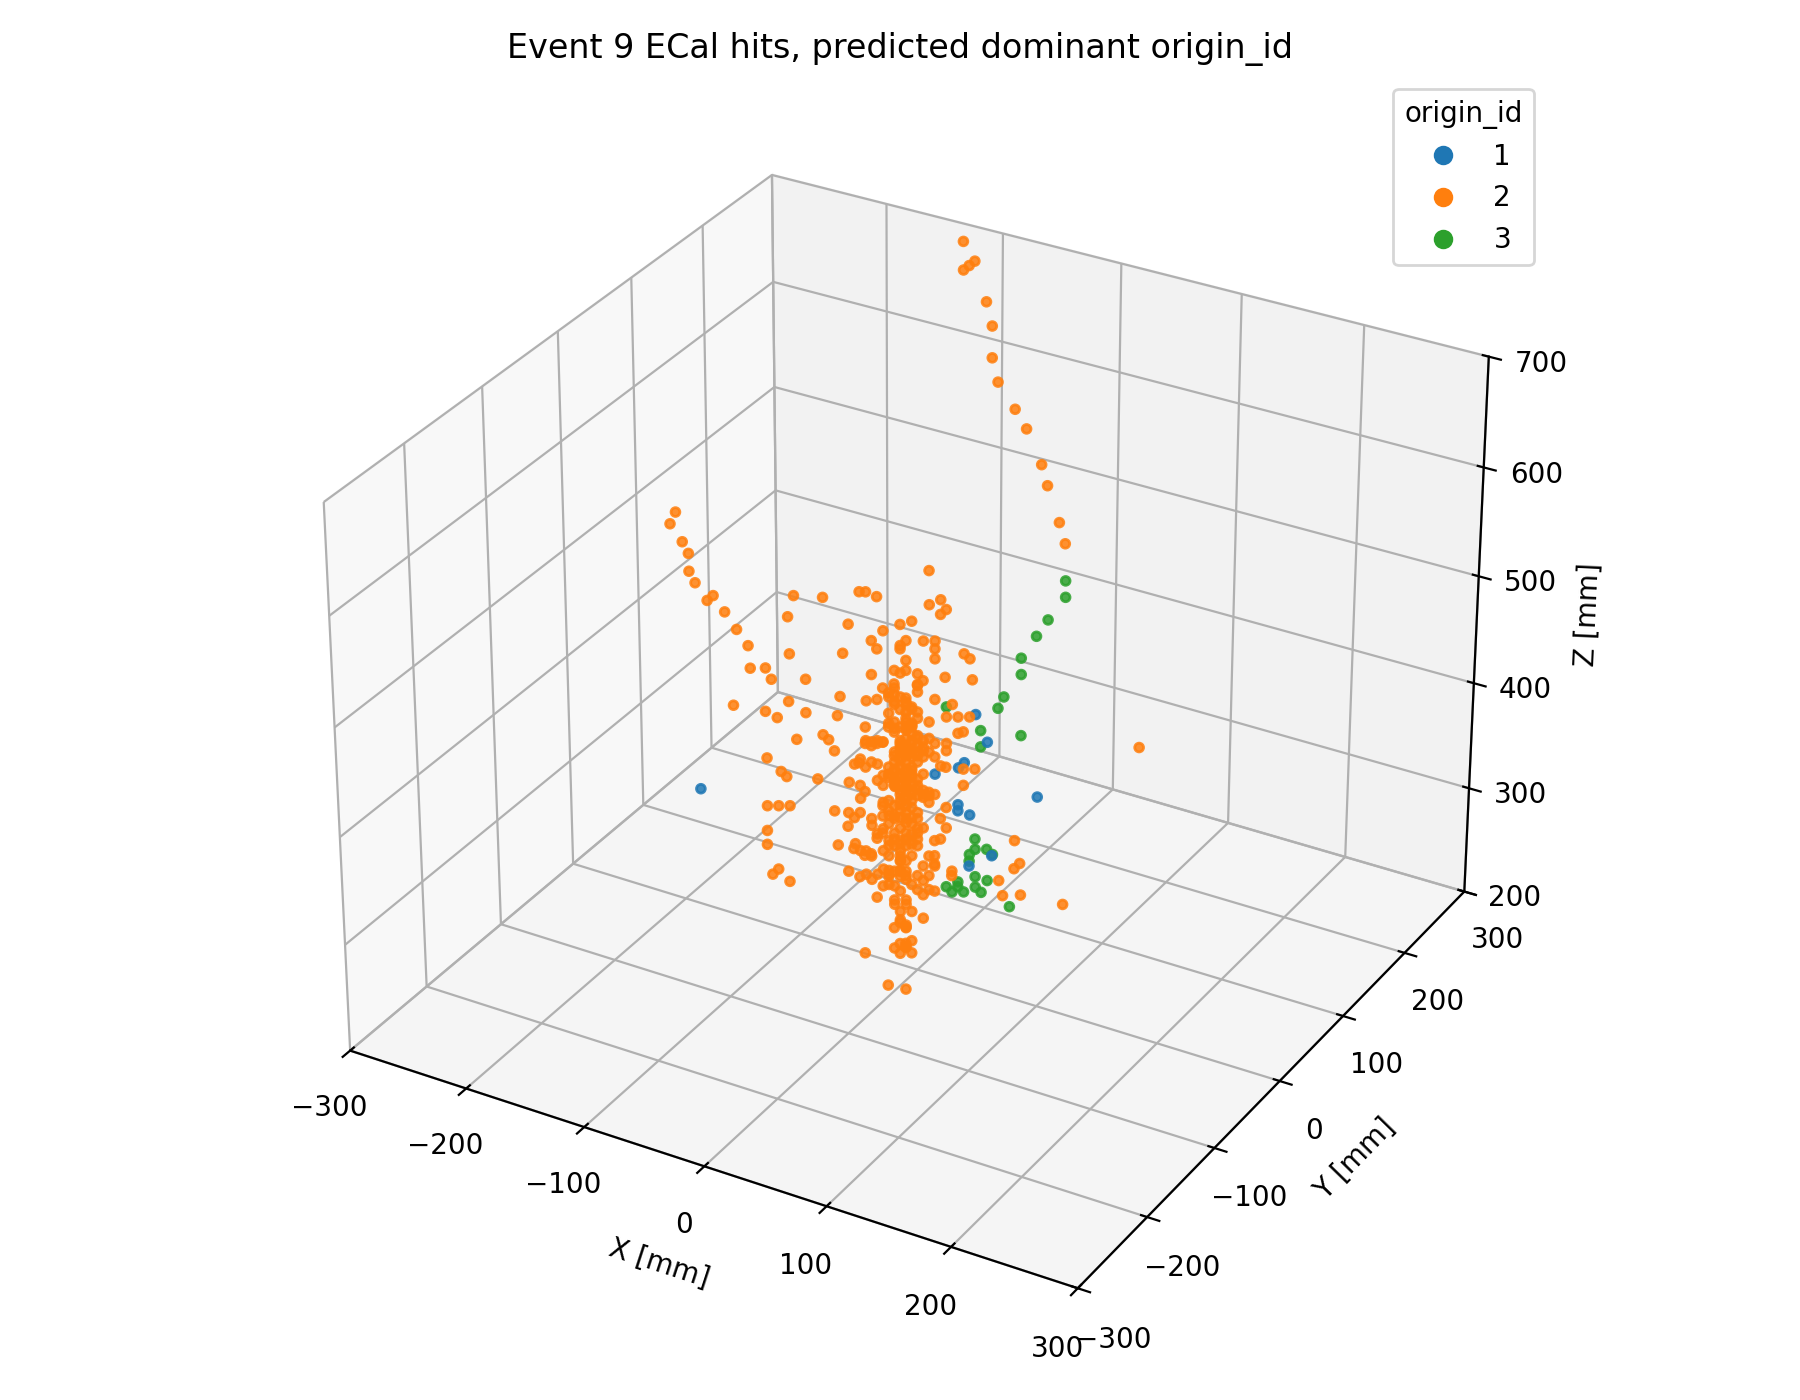
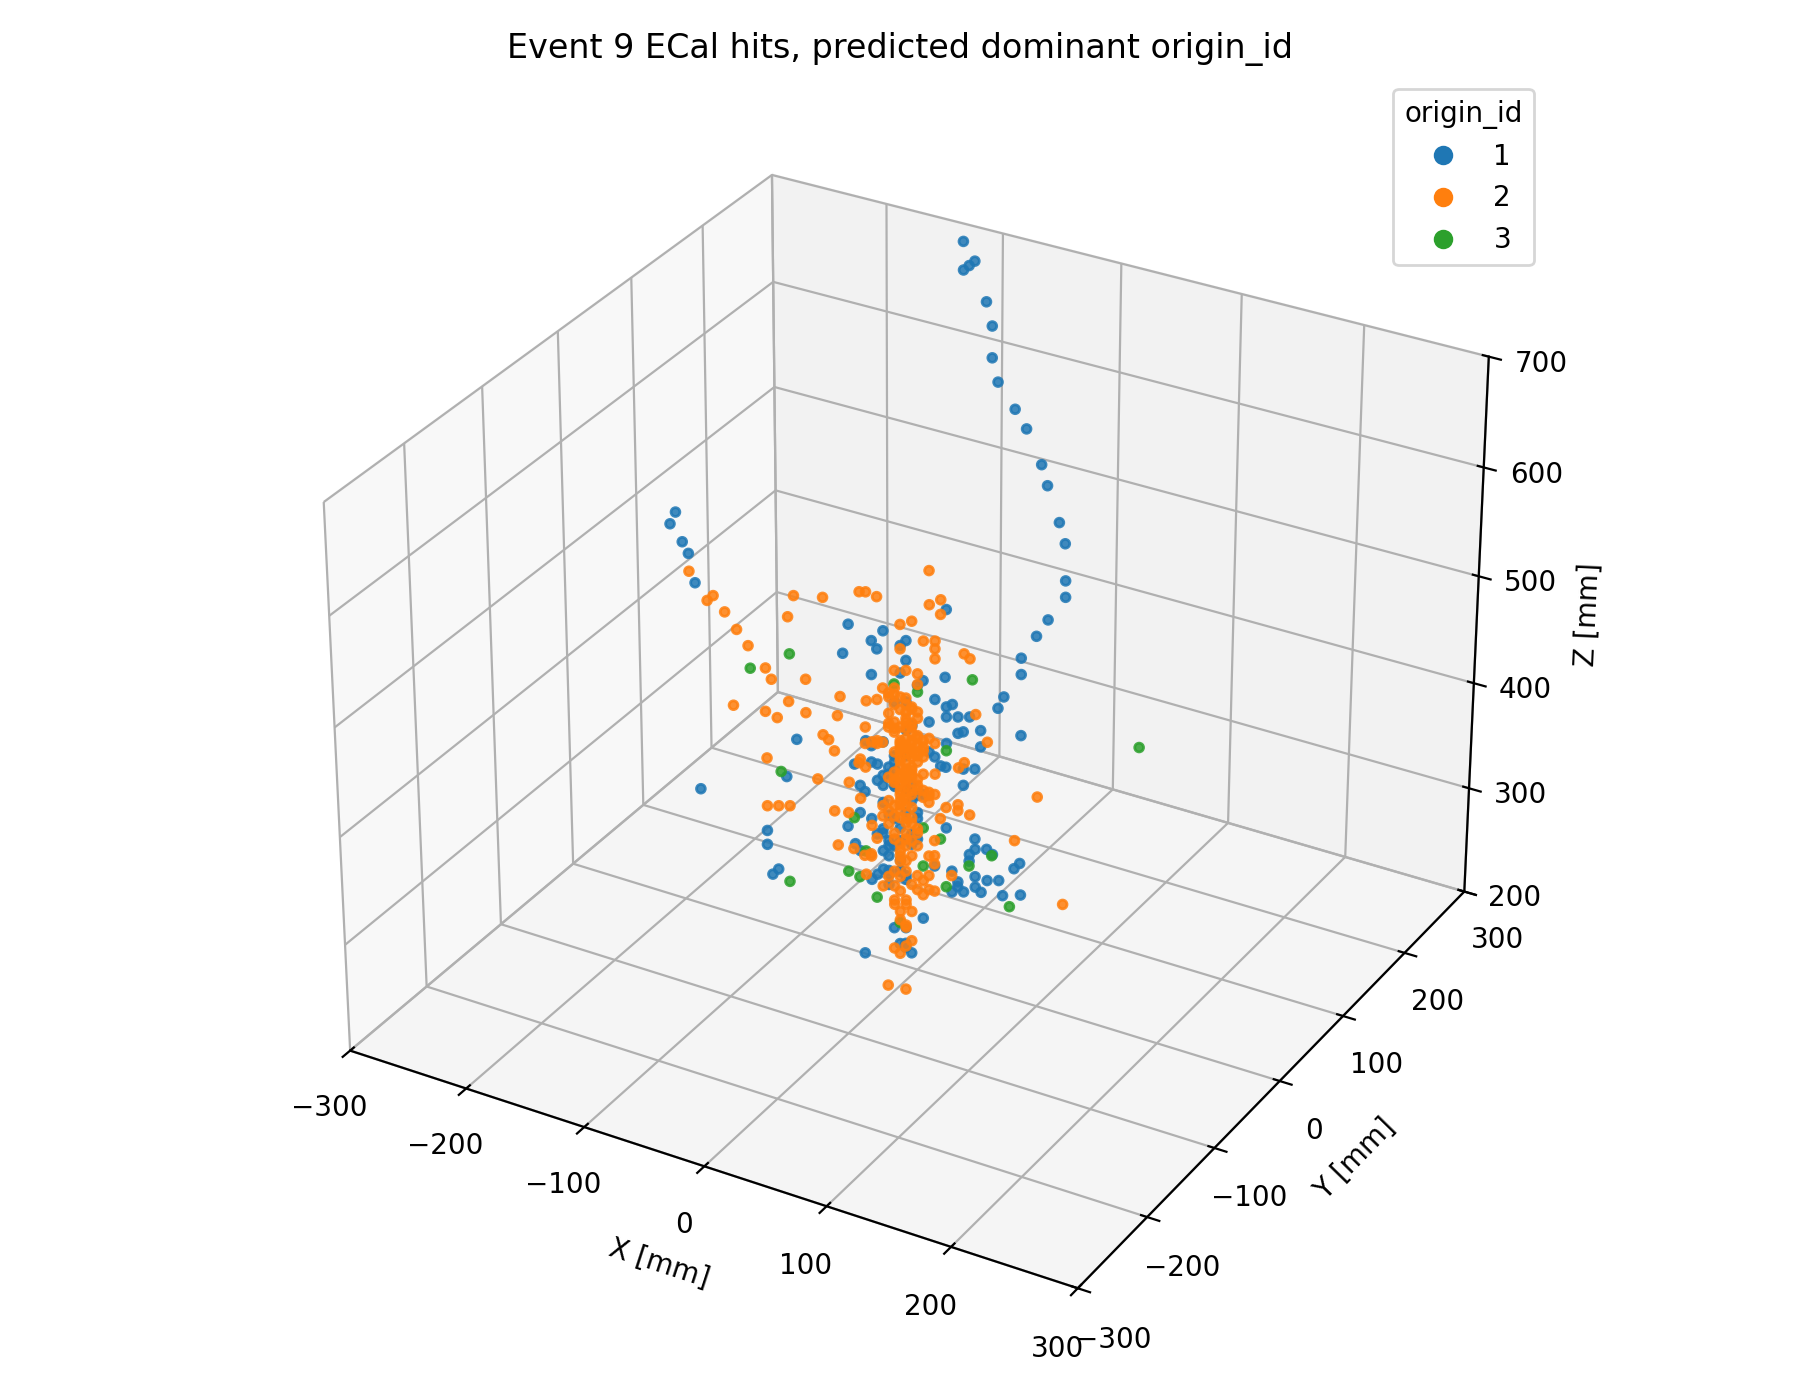
added transformer global attention model in ECal

Changed region(s): [[0.4667, 0.43, 0.5911, 0.6757], [0.5289, 0.1843, 0.56, 0.215], [0.3733, 0.3686, 0.4044, 0.3993]]

diff --git a/src/mldmx/models/ecal_transformer.py b/src/mldmx/models/ecal_transformer.py
@@ -1,0 +1,52 @@
+import torch
+import torch.nn as nn
+
+
+class ECalHitTransformer(nn.Module):
+    """
+    Per-hit ECal origin classifier using self-attention over one event.
+
+    No explicit positional encoding is used; hit coordinates are already part of
+    the input feature tensor.
+    """
+
+    def __init__(
+        self,
+        in_dim: int,
+        d_model: int = 64,
+        nhead: int = 4,
+        num_layers: int = 2,
+        dim_feedforward: int = 128,
+        dropout: float = 0.1,
+        out_dim: int = 3,
+    ):
+        super().__init__()
+        self.input_proj = nn.Sequential(
+            nn.Linear(in_dim, d_model),
+            nn.ReLU(),
+            nn.Linear(d_model, d_model),
+        )
+        encoder_layer = nn.TransformerEncoderLayer(
+            d_model=d_model,
+            nhead=nhead,
+            dim_feedforward=dim_feedforward,
+            dropout=dropout,
+            batch_first=True,
+        )
+        self.encoder = nn.TransformerEncoder(encoder_layer, num_layers=num_layers)
+        self.head = nn.Linear(d_model, out_dim)
+
+    def forward(self, x: torch.Tensor) -> torch.Tensor:
+        """
+        Args:
+            x: ECal hit features with shape [N_hits, F].
+
+        Returns:
+            Per-hit logits with shape [N_hits, out_dim].
+        """
+        if x.ndim != 2:
+            raise ValueError(f"Expected x with shape [N_hits, F], got {tuple(x.shape)}")
+
+        x = self.input_proj(x).unsqueeze(0)
+        x = self.encoder(x).squeeze(0)
+        return self.head(x)

diff --git a/src/mldmx/models/__init__.py b/src/mldmx/models/__init__.py
@@ -1,0 +1,4 @@
+from mldmx.models.ecal_transformer import ECalHitTransformer
+from mldmx.models.simple_gnn import SimpleGNN
+
+__all__ = ["ECalHitTransformer", "SimpleGNN"]

diff --git a/src/mldmx/viz/ecal.py b/src/mldmx/viz/ecal.py
@@ -1,5 +1,8 @@
 from pathlib import Path
 
+import matplotlib
+
+matplotlib.use("Agg")
 import matplotlib.pyplot as plt
 import numpy as np
 from matplotlib.lines import Line2D